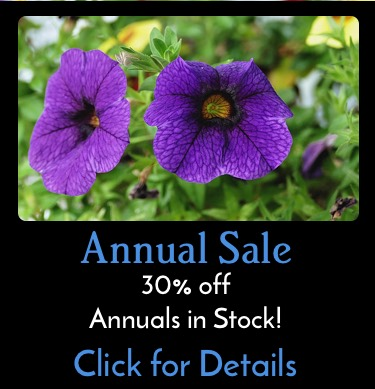
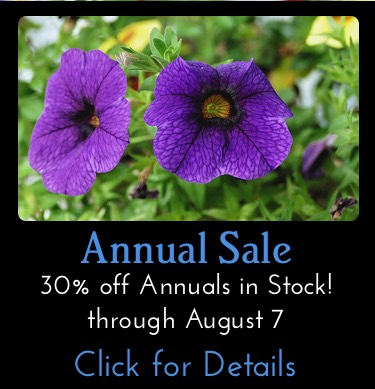
august 1

diff --git a/pages/events/current-classes.htm b/pages/events/current-classes.htm
@@ -58,46 +58,9 @@ is_hidden = 0
 
 -->
 
-<h2 class="wkend">July 27-28, 2019</h2>
-
-<h3>Summer Portland Orchid Society Sale</h3>
-<p><strong>5050 SE STARK &bull; Saturday &bull; July 27 &bull; 9:00-2:00pm</strong></p>
-
-<h3>Basics of Re-blooming and Caring for Your Orchid</h3>
-<p>with Terry Aitken<br>
-Do you have an orchid that is growing, but not re-blooming? Or maybe you would like a refresher course on the basics of caring for your orchid? Join Terry Aitken and learn the basic do’s and don’ts of how to care for your orchid. In this class Terry will cover caring for your orchid to re-blooming your orchid.</p>
-<p><strong>5050 SE STARK &bull; Saturday &bull; July 27 &bull; 11:00am</strong><br>
-<a href="https://portlandnursery.wufoo.com/forms/z1r9q18v1mmx7ux/" onclick="window.open(this.href,  null, 'height=483, =680, toolbar=0, location=0, status=1, scrollbars=1, resizable=1'); return false">Click here to register for this class.</a></p>
-<p><strong>5050 SE STARK &bull; Saturday &bull; July 27 &bull; 1:00pm</strong><br>
-<a href="https://portlandnursery.wufoo.com/forms/zcybtsg1k1itab/" onclick="window.open(this.href,  null, 'height=483, =680, toolbar=0, location=0, status=1, scrollbars=1, resizable=1'); return false">Click here to register for this class.</a></p>
-
-<div class="dclass"><h3>Start Planning Now for Fall Harvest!</h3>
-<p>with Marc Scheidecker<br>
-We all need and want great tasting and nutritious food throughout the year, don’t we?  Well the very best way to get it is to grow it ourselves! Fortunately, we live in an excellent part of the country for vegetable gardening. Summer is the time to get crops for fall and winter harvest into the ground, favorites such as cabbage, carrots, cauliflower, beets, rutabagas and spinach. The class handout will also have a few recipes in it!</p>
-<p><strong>9000 SE DIVISION &bull; Saturday &bull; July 27 &bull; 11:00am</strong><br>
-<a href="https://portlandnursery.wufoo.com/forms/z1q3cyyb1pkngoa/" onclick="window.open(this.href,  null, 'height=483, =680, toolbar=0, location=0, status=1, scrollbars=1, resizable=1'); return false">Click here to register for this class.</a></p></div>
-
-<div class="dclass"><h3>Bonsai is for Everyone</h3>
-<p>with Lucy Davenport of <a target="_blank" href="http://www.bonsaiakira.com">Bonsai Akira</a><br />
-Lucy Davenport of Bonsai Akira will cover the elements of styling- taking a plant specimen from nursery stock to a finished bonsai. The class will include an overview of the techniques of styling, including root pruning, branch pruning, wiring, and leaf reduction. This allows persons with any level of experience to participate. Bring a plant or just come to learn. </p>
-<p><strong>9000 SE DIVISION &bull; Sunday &bull; July 28 &bull; 11:00am</strong><br>
-<a href="https://portlandnursery.wufoo.com/forms/z19amcvx0089ipd/" onclick="window.open(this.href,  null, 'height=483, =680, toolbar=0, location=0, status=1, scrollbars=1, resizable=1'); return false">Click here to register for this class.</a></p></div>
-
-<h3>Growing Your Winter Vegetable Garden (Starts inJuly!!!)</h3>
-<p>with Ian Wilson of <a target="_blank" href="http://www.portlandediblegardens.com">Portland Edible Gardens</a><br />
-Our relatively mild winters offer us the opportunity to grow an abundance of food right on through the dark and rainy seasons.  Come learn about the basics of growing a productive Winter garden! We will cover factors affecting winter growth, which vegetables overwinter well in our climate, when to plant, and how to care for your Winter garden.</p>
-<p><strong>5050 SE STARK &bull; Sunday &bull; July 28 &bull; 1:00pm</strong><br>
-<a href="https://portlandnursery.wufoo.com/forms/zed79e0jn0wku/" onclick="window.open(this.href,  null, 'height=483, =680, toolbar=0, location=0, status=1, scrollbars=1, resizable=1'); return false">Click here to register for this class.</a></p>
-
-<div class="dclass"><h3>Writing and Drawing with Plants</h3>
-<p>with interdisciplinary artist Tamara Lynne<br>
-Bring a hardback notebook with blank pages and a pen/pencil or any other drawing material and settle in to enjoy quiet writing and drawing inspiration from the many vibrant living things around us: plants, trees, insects, birds, sun, wind and weather. Through close listening, careful observation, and a series of timed prompts, we’ll engage with the environment. We hope to be outside for part of the time, weather permitting. Chairs will be provided, but feel free to bring cushions or other seating if you like.</p>
-<p><strong>9000 SE DIVISION &bull; Sunday &bull; July 28 &bull; 1:00pm</strong><br>
-<a href="https://portlandnursery.wufoo.com/forms/z1f8yfel07un746/" onclick="window.open(this.href,  null, 'height=483, =680, toolbar=0, location=0, status=1, scrollbars=1, resizable=1'); return false">Click here to register for this class.</a></p></div>
-
 <h2 class="wkend" id="august">August 3-4, 2019</h2>
 
-<h3>Intro to Permaculture Principles</h3>
+<h3>Intro to Permaculture Principles (sustainable agriculture that mimics natural ecosystems)</h3>
 <p>with Shelby Spencer of <a target="_blank" href="https://www.guidestar.org/profile/81-4718769">Veteran's Ecological Trades Collective</a><br>
 This class focuses on making permaculture (sustainable agriculture that mimics natural ecosystems) knowledge accessible, easy, and fun! Permaculture is a creative design process based on whole-systems thinking that seeks to emulate the complex balance of natural systems. </p>
 
@@ -112,6 +75,12 @@ Many gardeners are intimidated by the scientific names of plants. Don’t be! Th
 <a href="https://portlandnursery.wufoo.com/forms/z1u2uivd0fdaivu/" onclick="window.open(this.href,  null, 'height=483, =680, toolbar=0, location=0, status=1, scrollbars=1, resizable=1'); return false">Click here to register for this class.</a></p>
 
 <h2 class="wkend">August 10-11, 2019</h2>
+
+  <h3>Fuchsia Society Show and Sale</h3>
+
+                <h4>5050 SE STARK &bull; Friday  &bull; August 9 &bull; 12:00-4:00pm</h4>
+                <h4>5050 SE STARK &bull; Saturday &bull; August 10  &bull; 9:00-4:00pm</h4>
+                <h4>5050 SE STARK &bull; Sunday &bull; August 11 &bull; 9:00-2:00pm</h4>
 
 <div class="dclass"><h3>What to Do in the August Vegetable Garden</h3>
     <p>with Robyn Streeter of <a href="http://www.yourbackyardfarmer.com/" target="_blank">Your Backyard Farmer</a><br />

diff --git a/partials/homepage/tasks.htm b/partials/homepage/tasks.htm
@@ -14,7 +14,7 @@
        <div class="col-md-4 col-sm-6">
 			 <div class="season-box">
                 <div class="season-thumb">
-                      <a href="https://portlandnursery.wufoo.com/forms/zcybtsg1k1itab/" onclick="window.open(this.href,  null, 'height=483, =680, toolbar=0, location=0, status=1, scrollbars=1, resizable=1'); return false"><img src="{{ 'assets/images/classboxes/orchidcare.jpg'|theme }}" alt="" /></a>
+                      <a href="https://portlandnursery.com/resources/sales"><img src="{{ 'assets/images/classboxes/annualsale.jpg'|theme }}" alt="" /></a>
                 </div>
 
                  <a href="https://portlandnursery.com/resources/sales/">
@@ -33,7 +33,8 @@
         <div class="col-md-4 col-sm-6">
 			 <div class="season-box">
                 <div class="season-thumb">
-                     <a href="https://portlandnursery.wufoo.com/forms/z1q3cyyb1pkngoa/" onclick="window.open(this.href,  null, 'height=483, =680, toolbar=0, location=0, status=1, scrollbars=1, resizable=1'); return false"><img src="{{ 'assets/images/classboxes/fallharvest2.jpg'|theme }}" alt="" /></a>
+                     <a href="https://portlandnursery.com/resources/sales"><img src="{{ 'assets/images/marketing/aughouseplantsale2019.jpg'|theme }}" alt="" /></a>
+
                 </div>
 
                 <a target="_blank" href="https://portlandnursery.com/docs/appletasting-recipes/steelheadpackets.pdf">
@@ -52,7 +53,7 @@
          <div class="col-md-4 col-sm-6">
 			 <div class="season-box">
                 <div class="season-thumb">
-                     <a href="https://portlandnursery.wufoo.com/forms/z1f8yfel07un746/" onclick="window.open(this.href,  null, 'height=483, =680, toolbar=0, location=0, status=1, scrollbars=1, resizable=1'); return false"><img src="{{ 'assets/images/classboxes/drawing.jpg'|theme }}" alt="" /></a>
+                     <a href="https://portlandnursery.wufoo.com/forms/z1bn7l871ks777m/" onclick="window.open(this.href,  null, 'height=483, =680, toolbar=0, location=0, status=1, scrollbars=1, resizable=1'); return false"><img src="{{ 'assets/images/classboxes/permaculture.jpg'|theme }}" alt="" /></a>
                 </div>
 
                  <a href="https://portlandnursery.com/resources/sales/">

diff --git a/pages/resources/sales.htm b/pages/resources/sales.htm
@@ -23,6 +23,14 @@ is_hidden = 0
 
                <h2>Come back later for new sales</h2>
 
+               <figure> <img class="img-responsive" alt="EB Stone Sale" src="https://portlandnursery.com/newsletter/images/sales/annualsale2019.jpg" style="margin: 0px;display: inline;"></figure>
+
+               <hr>
+
+               <figure> <img class="img-responsive" alt="EB Stone Sale" src="https://portlandnursery.com/newsletter/images/houseplantsale/aughouseplantsale2019.jpg" style="margin: 0px;display: inline;"></figure>
+
+               <hr>
+
 					 <figure> <img class="img-responsive" alt="EB Stone Sale" src="https://portlandnursery.com/newsletter/images/sales/roseclearance2019.jpg" style="margin: 0px;display: inline;"></figure>
 
 	                 </div>
